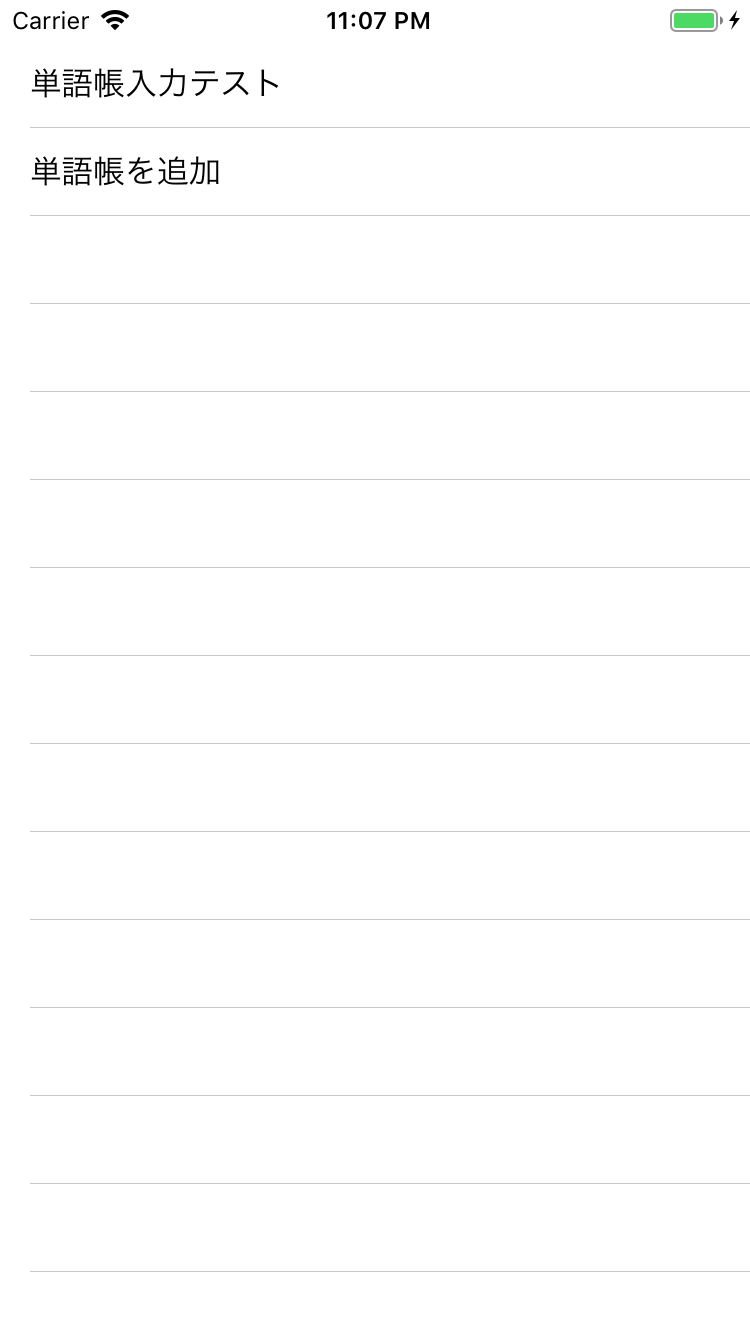
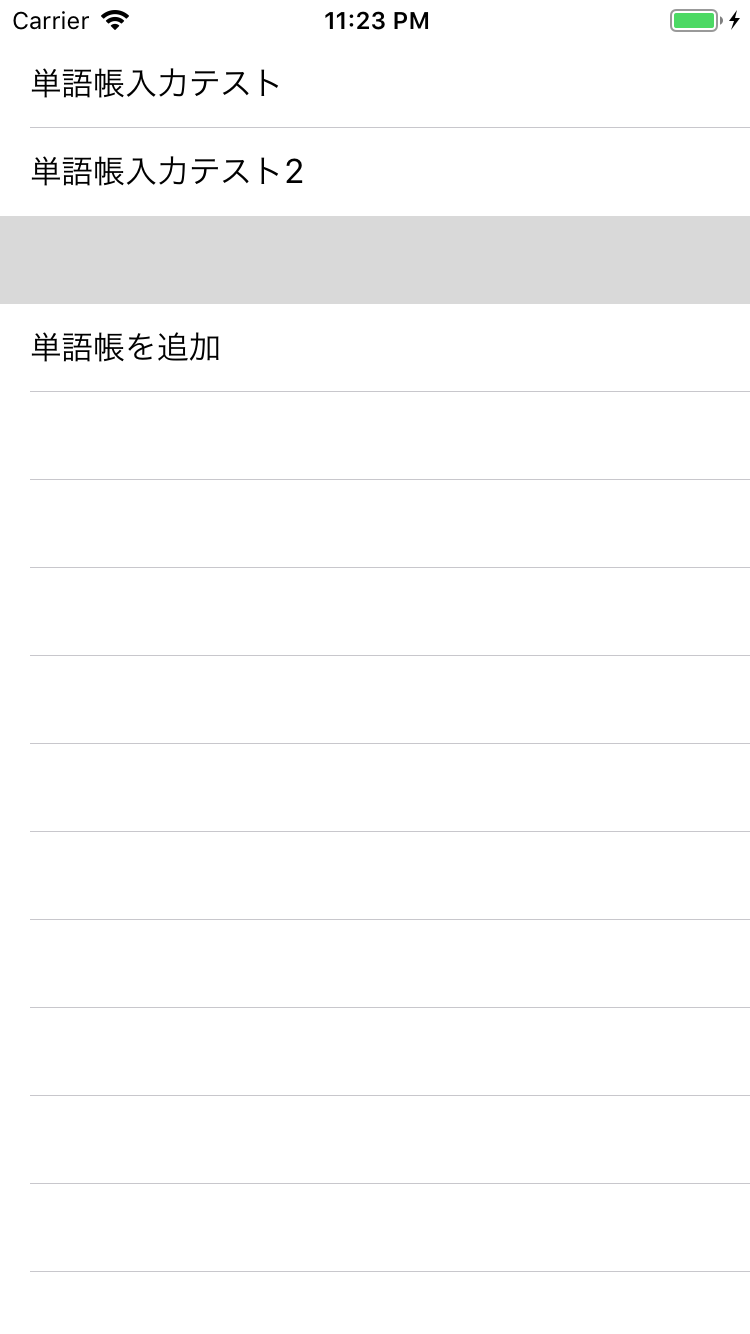
単語帳の新規登録IDを被らないように変更（既存の単語帳リストにある最大のID + 1 を新規単語帳のIDに使う）

Changed region(s): [[0.0, 0.0922, 1.0, 0.2766], [0.4293, 0.0, 0.5827, 0.0307]]

diff --git a/EnglishWords/EnglishWords/AddWordNoteBookViewController.swift b/EnglishWords/EnglishWords/AddWordNoteBookViewController.swift
@@ -38,14 +38,15 @@ class AddWordNoteBookViewController: UIViewController, UITextFieldDelegate {
     // Segue 準備
     override func prepare(for segue: UIStoryboardSegue, sender: Any?) {
         if (segue.identifier == "AddBookandToViewController") {
-            //ここでRealm使って書き込み行わせてから戻る
+            //Realm
             let realm = try! Realm()
+            let results = realm.objects(WordNoteBook.self)
+            var maxId = results.value(forKeyPath: "@max.wordNoteBookId")! as! Int
+
             try! realm.write {
-                let wordnotebook = WordNoteBook(value:
-                    ["wordNoteBookId": 1,
-                     "wordNoteBookName": textField.text,
-                     "createdDate": Date()])
-                realm.add(wordnotebook)
+                realm.add([WordNoteBook(value: ["wordNoteBookId": (maxId + 1),
+                                                "wordNoteBookName": textField.text!,
+                                                "createdDate": Date()])])
             }
             
         }

diff --git a/EnglishWords/EnglishWords/WordNoteBook.swift b/EnglishWords/EnglishWords/WordNoteBook.swift
@@ -10,9 +10,9 @@ import Foundation
 import RealmSwift
 
 class WordNoteBook: Object {
-    @objc dynamic var wordNoteBookId = 0
-    @objc dynamic var wordNoteBookName = " "
-    @objc dynamic var createdDate = Date()
+    @objc dynamic var wordNoteBookId: Int = 0
+    @objc dynamic var wordNoteBookName: String = " "
+    @objc dynamic var createdDate: Date = Date()
     
     override static func primaryKey() -> String? {
         return "wordNoteBookId"
